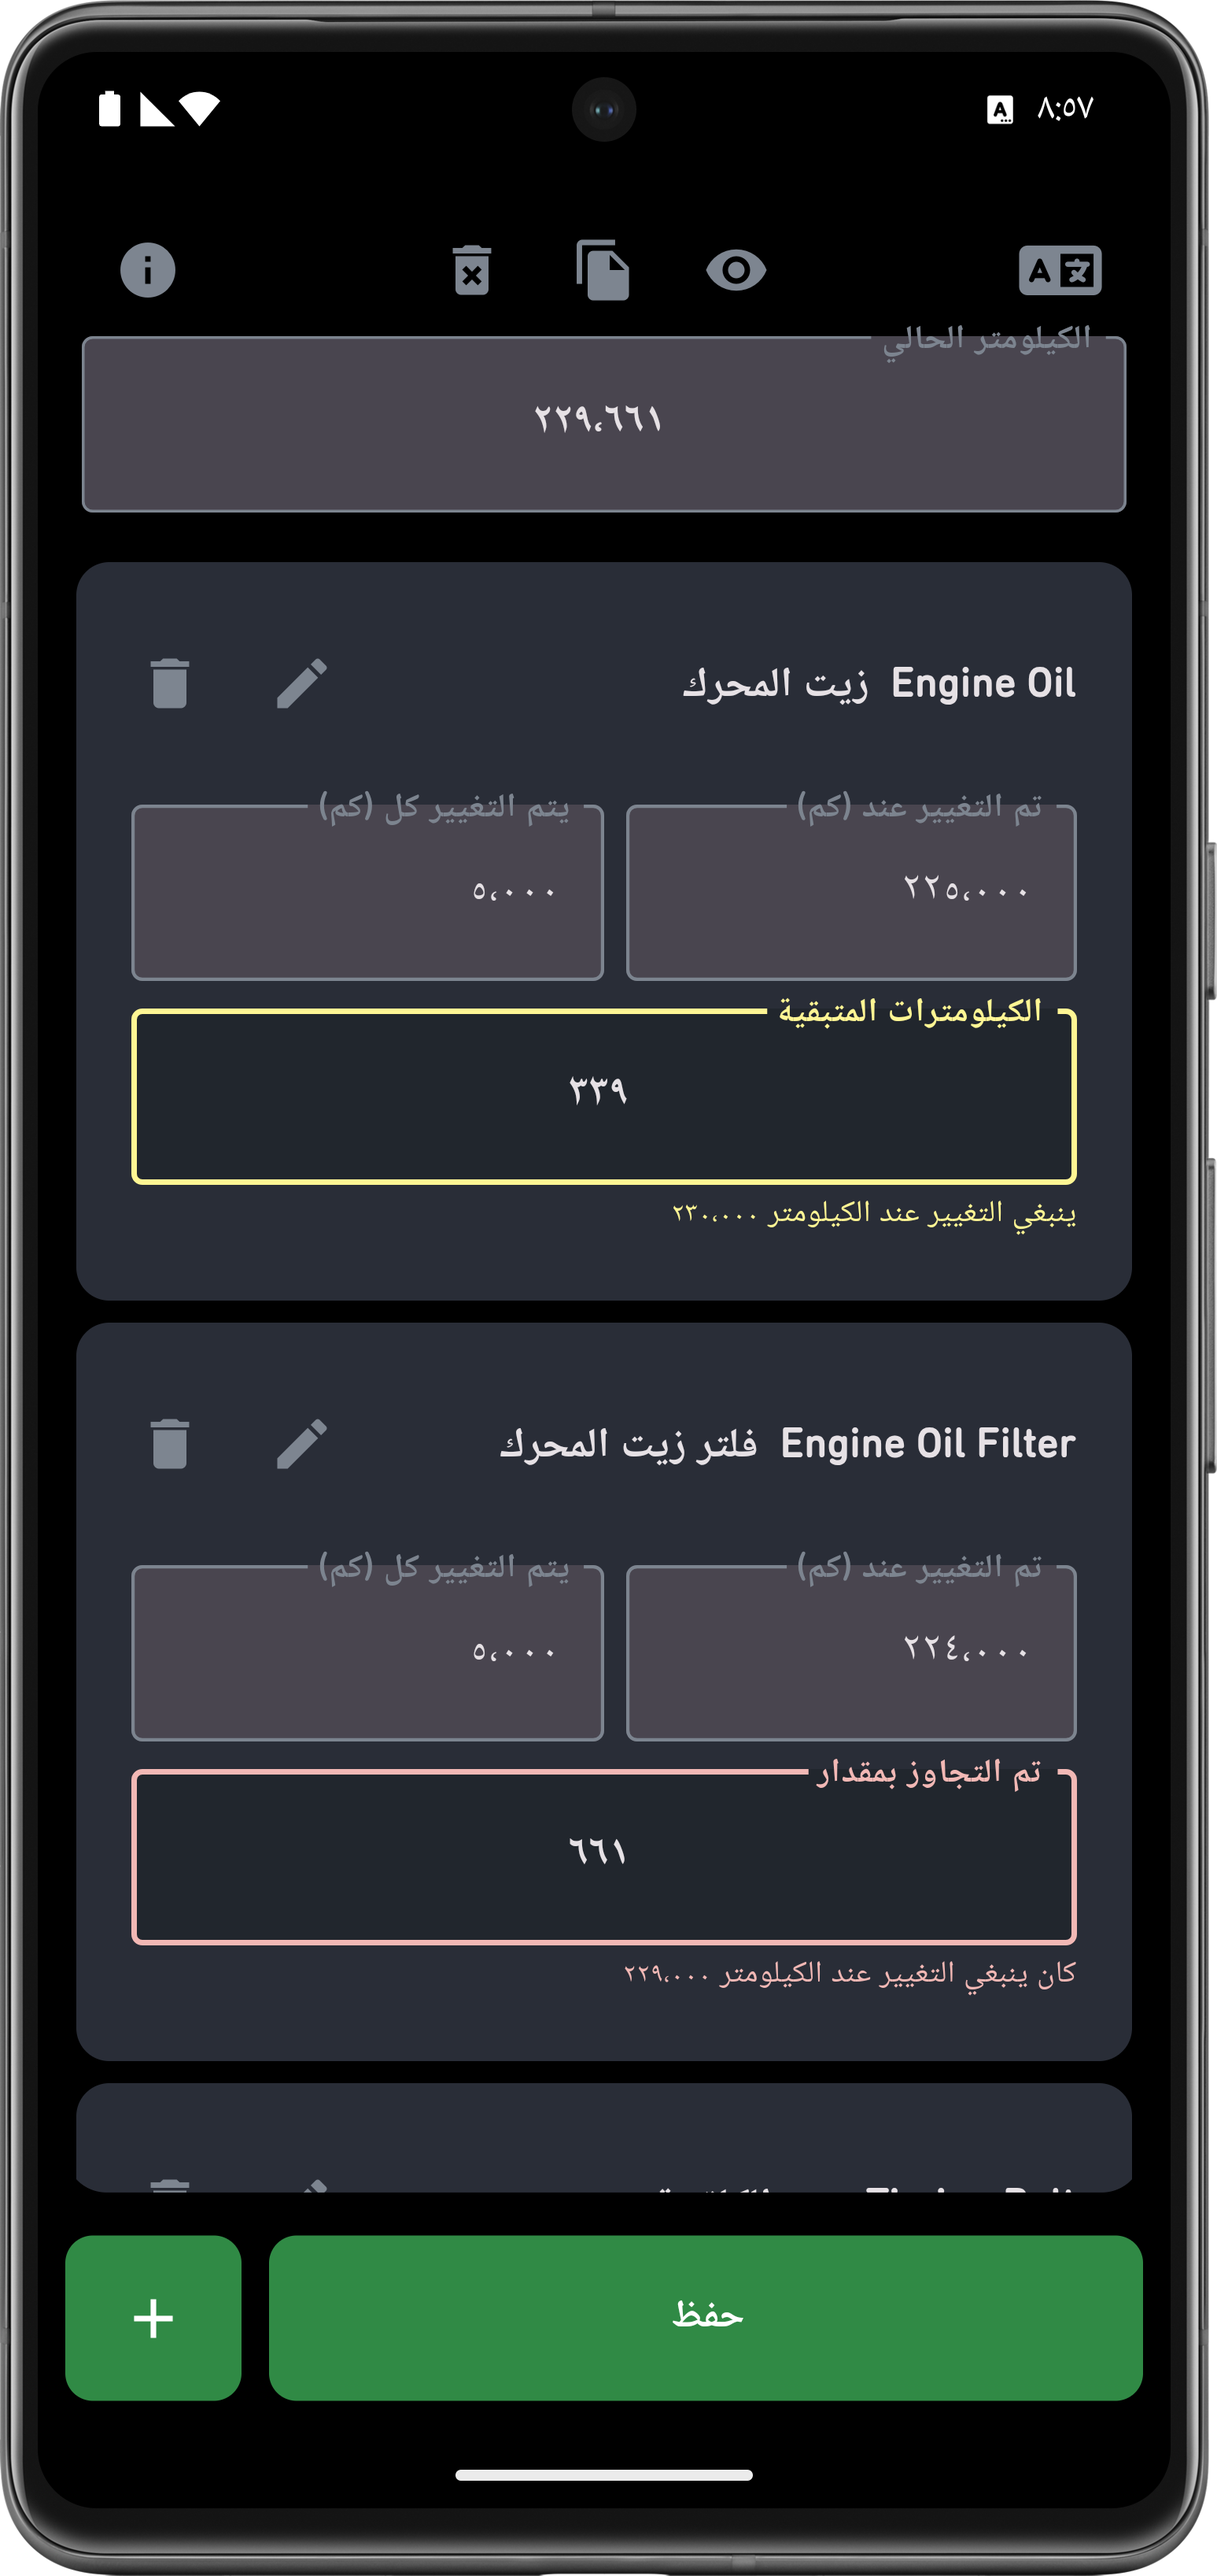
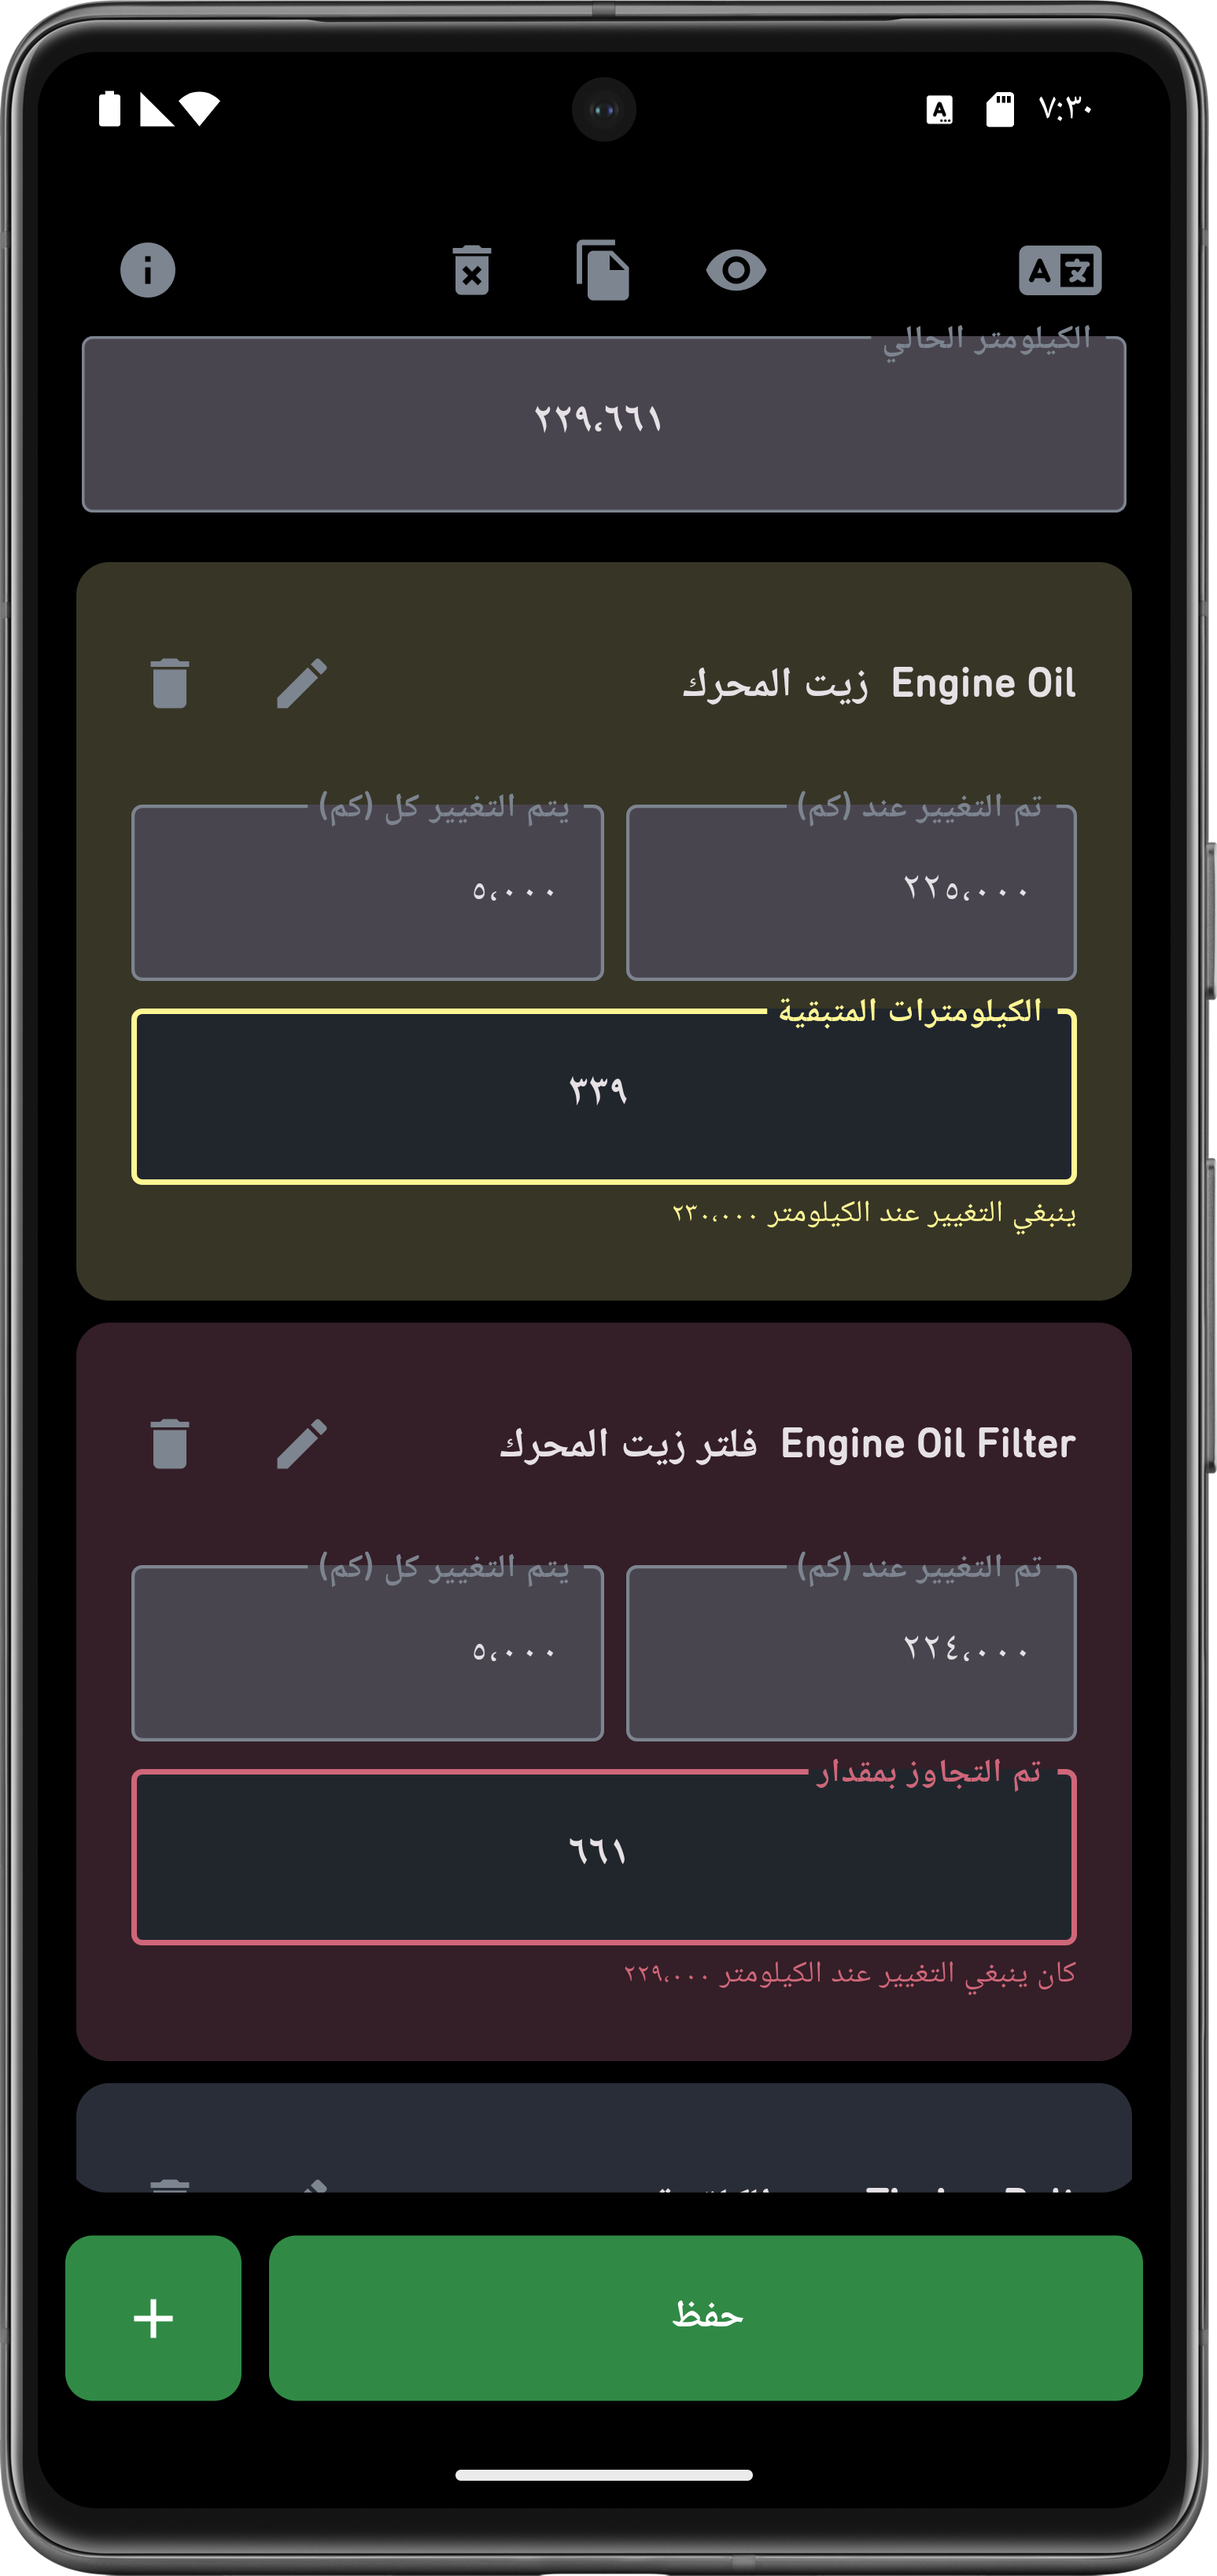
=> removed unused block comment in car_cubit.dart
=> replaced some screenshots to display color aid feature.

diff --git a/lib/src/features/car_info/presentation/cubit/car_cubit.dart b/lib/src/features/car_info/presentation/cubit/car_cubit.dart
@@ -53,119 +53,4 @@ class CarCubit extends Cubit<CarState> {
       BotToast.showText(text: AppStrings.somethingWentWrong(context));
     }
   }
-
-// TODO: move to Bloc instead of Provider
-// OutlineInputBorder getFocusedBorder(BuildContext context) => OutlineInputBorder(
-//       borderSide: BorderSide(
-//         color: context.isLight
-//             ? AppColors.appBarFocusedPrimaryLight
-//             : AppColors.appBarFocusedPrimaryDark,
-//         strokeAlign: 0,
-//         width: 1.2,
-//       ),
-//     );
-//
-// OutlineInputBorder getDefaultBorder(BuildContext context) => OutlineInputBorder(
-//       borderSide: BorderSide(
-//         color: context.isLight ? AppColors.hintLight : AppColors.hintDark,
-//         width: 1.2,
-//         strokeAlign: 0,
-//       ),
-//     );
-//
-// OutlineInputBorder getErrorBorder(BuildContext context) => OutlineInputBorder(
-//       borderSide: BorderSide(
-//         color: Theme.of(context).colorScheme.error,
-//         width: 2,
-//       ),
-//     );
-//
-// OutlineInputBorder getWarningBorder(BuildContext context) => OutlineInputBorder(
-//       borderSide: BorderSide(
-//         color: context.isLight ? AppColors.warningLight : AppColors.warningDark,
-//         width: 2,
-//       ),
-//     );
-//
-// bool shouldEnableContinueButton(BuildContext context) {
-//   if (getCarTypeValidatingText(context).data != '' ||
-//       getModelYearValidatingText(context).data != '' ||
-//       getCurrentKmValidatingText(context).data != '') {
-//     return false;
-//   }
-//   return true;
-// }
-//
-// String? validateCarType() {
-//   emit(ValidatingItem());
-//   if (carTypeController.text == '') {
-//     emit(ValidatingComplete());
-//     return AppStrings.requiredField;
-//   }
-//   emit(ValidatingComplete());
-//   return null;
-// }
-//
-// String? _validateModelYear() {
-//   emit(ValidatingItem());
-//
-//   if (modelYearController.text == '') {
-//     emit(ValidatingComplete());
-//     return AppStrings.requiredField;
-//   } else {
-//     if (modelYearController.text != '' && modelYearController.text.length < 4) {
-//       emit(ValidatingComplete());
-//       return AppStrings.yearMatchesLength;
-//     } else if (int.parse(modelYearController.text) > (DateTime.now().year + 1)) {
-//       emit(ValidatingComplete());
-//       return AppStrings.yearNotValid;
-//     }
-//   }
-//   emit(ValidatingComplete());
-//   return null;
-// }
-//
-// String? _validateCurrentKm() {
-//   emit(ValidatingItem());
-//   if (currentKmController.text == '') {
-//     emit(ValidatingComplete());
-//     return AppStrings.requiredField;
-//   }
-//   emit(ValidatingComplete());
-//   return null;
-// }
-//
-// Text getCarTypeValidatingText(BuildContext context) {
-//   emit(GettingValidatingText());
-//   return Text(
-//     validateCarType() ?? '',
-//     style: TextStyle(
-//       color: AppColors.getErrorColor(context),
-//       height: validateCarType() != null ? 2 : 0,
-//       fontSize: 11,
-//     ),
-//   );
-// }
-//
-// Text getModelYearValidatingText(BuildContext context) {
-//   return Text(
-//     _validateModelYear() ?? '',
-//     style: TextStyle(
-//       color: AppColors.getErrorColor(context),
-//       height: _validateModelYear() != null ? 2 : 0,
-//       fontSize: 11,
-//     ),
-//   );
-// }
-//
-// Text getCurrentKmValidatingText(BuildContext context) {
-//   return Text(
-//     _validateCurrentKm() ?? '',
-//     style: TextStyle(
-//       color: AppColors.getErrorColor(context),
-//       height: _validateCurrentKm() != null ? 2 : 0,
-//       fontSize: 11,
-//     ),
-//   );
-// }
 }
